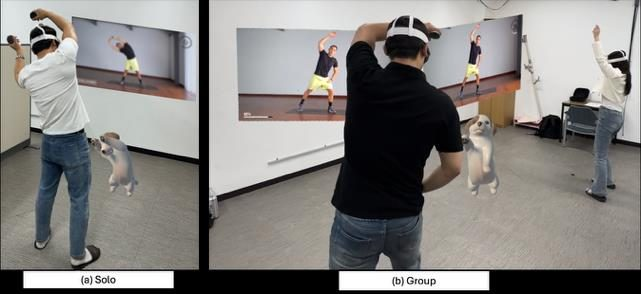
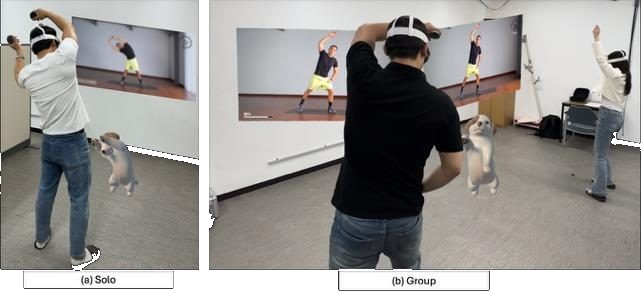
Repaint the black out of the figures, and tidy three pages
Three figures were made by flattening a transparent PNG onto black, so the black
was part of the picture - no file format or CSS change could shift it.
tools/black-background-to-white.ps1 fills it in from the edges the way a paint
bucket would, so black text and lines inside the figures are untouched.
Originals are kept in assets/research/_original/.

Also: the affiliation line above the headline stays on one line, the Publications
lead is gone, and the Teaching page no longer carries a photo.

Changed region(s): [[0.0, 0.0, 1.0, 1.0], [0.936, 0.4592, 1.0, 0.5204]]

diff --git a/assets/style.css b/assets/style.css
@@ -127,8 +127,15 @@ header.top nav a.enter:hover { background: var(--navy); color: #fff; }
   object-fit: cover; object-position: 50% 8%;
   border: 1px solid var(--line); border-radius: 6px; background: var(--paper-2);
 }
-/* The long affiliation line needs room to breathe above the headline. */
-.hero-lab .eyebrow, .stepin .eyebrow { line-height: 1.5; max-width: 60ch; }
+/* The affiliation reads as one line. The letter-spacing that suits a three-word label is too
+   wide for a sentence this long, so it is eased off and the size allowed to give a little. */
+.hero-lab .eyebrow, .stepin .eyebrow {
+  white-space: nowrap; letter-spacing: .08em; font-size: clamp(10.5px, 1.05vw, 13px);
+}
+@media (max-width: 640px) {
+  /* Below this it cannot fit at a readable size; wrapping beats shrinking to nothing. */
+  .hero-lab .eyebrow, .stepin .eyebrow { white-space: normal; font-size: 11px; }
+}
 .hero .greeter b, .hero-lab .greeter b { color: var(--ink); }
 
 /* the drawn plan */

diff --git a/teaching.html b/teaching.html
@@ -68,11 +68,6 @@
       <li><span>Build</span> Navigation · selection · manipulation · spatial UI · feedback <i>구현</i></li>
       <li><span>Test</span> Peer testing in XR, then iterate <i>평가와 개선</i></li>
     </ul>
-    <figure class="shot">
-      <img src="assets/space-office.png" alt="The research wing inside the virtual lab" loading="lazy">
-      <figcaption>The interaction bench in the virtual lab is the same vocabulary the course teaches
-        <span class="ko-inline">수업에서 다루는 상호작용이 가상 연구실의 체험 구역입니다</span></figcaption>
-    </figure>
     <p class="muted">Student projects will be published here at the end of the semester.
       <span class="ko-inline">학기 말 팀 작품을 이 페이지에 공개할 예정입니다.</span></p>
   </section>

diff --git a/publications.html b/publications.html
@@ -53,8 +53,6 @@
 <div class="wrap">
   <section class="page-head">
     <h1>Publications <span class="ko-head">주요 논문</span></h1>
-    <p class="lead">Work published at IEEE ISMAR, IEEE VR and TVCG.</p>
-    <p class="ko">연구 분야별로 묶어 두었습니다. 그림을 누르면 원본 크기로 열립니다.</p>
   </section>
   <section>
     <div id="pubGroups"></div>
